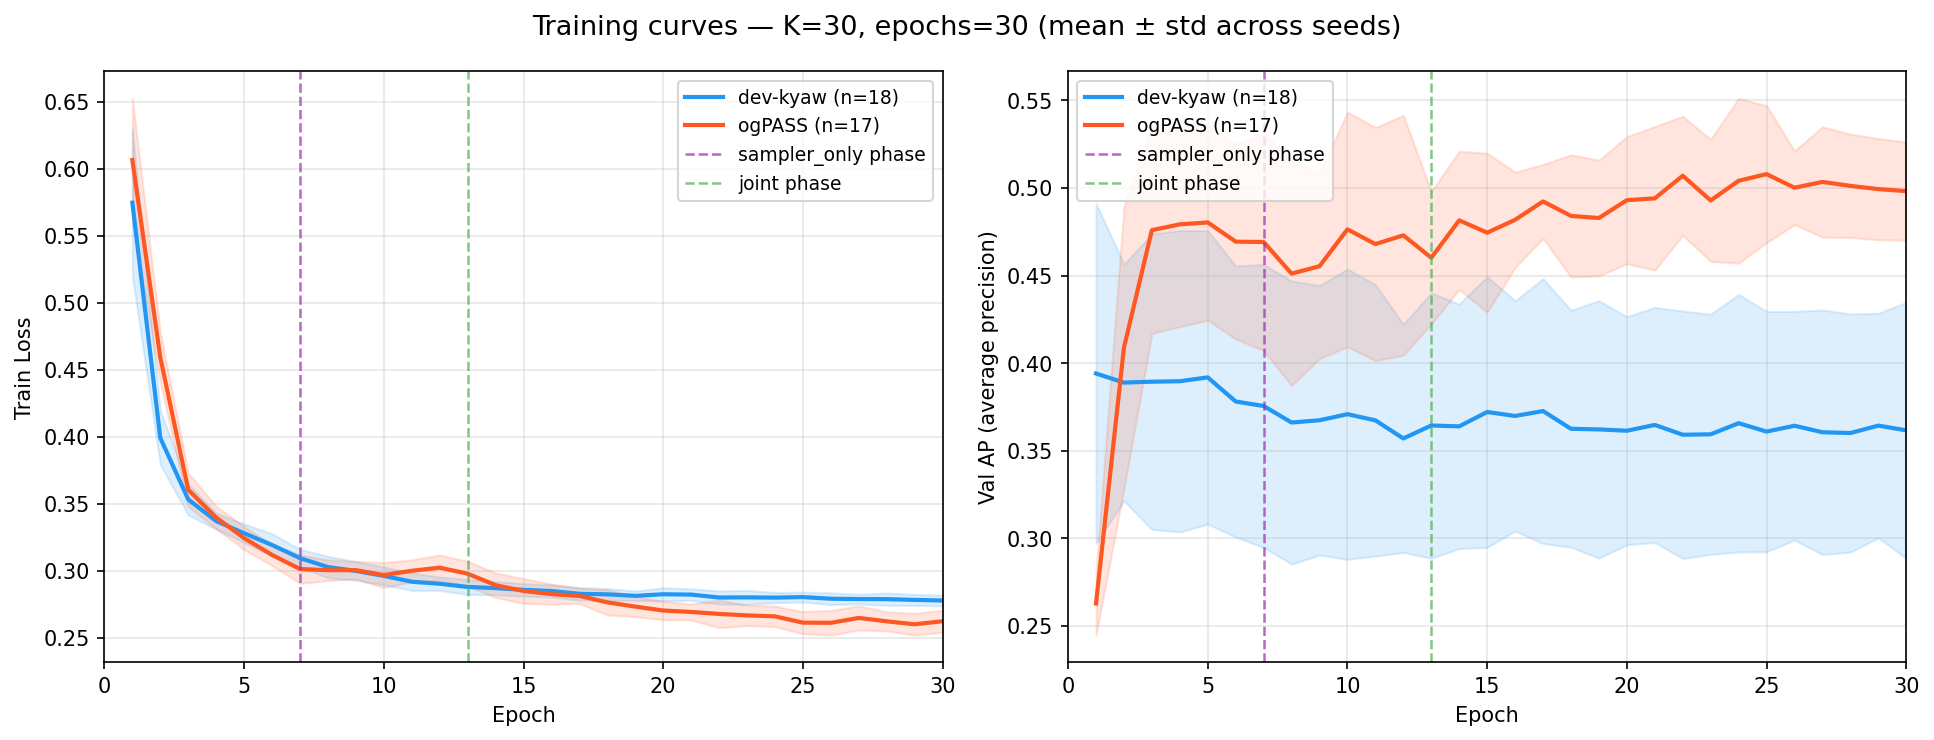
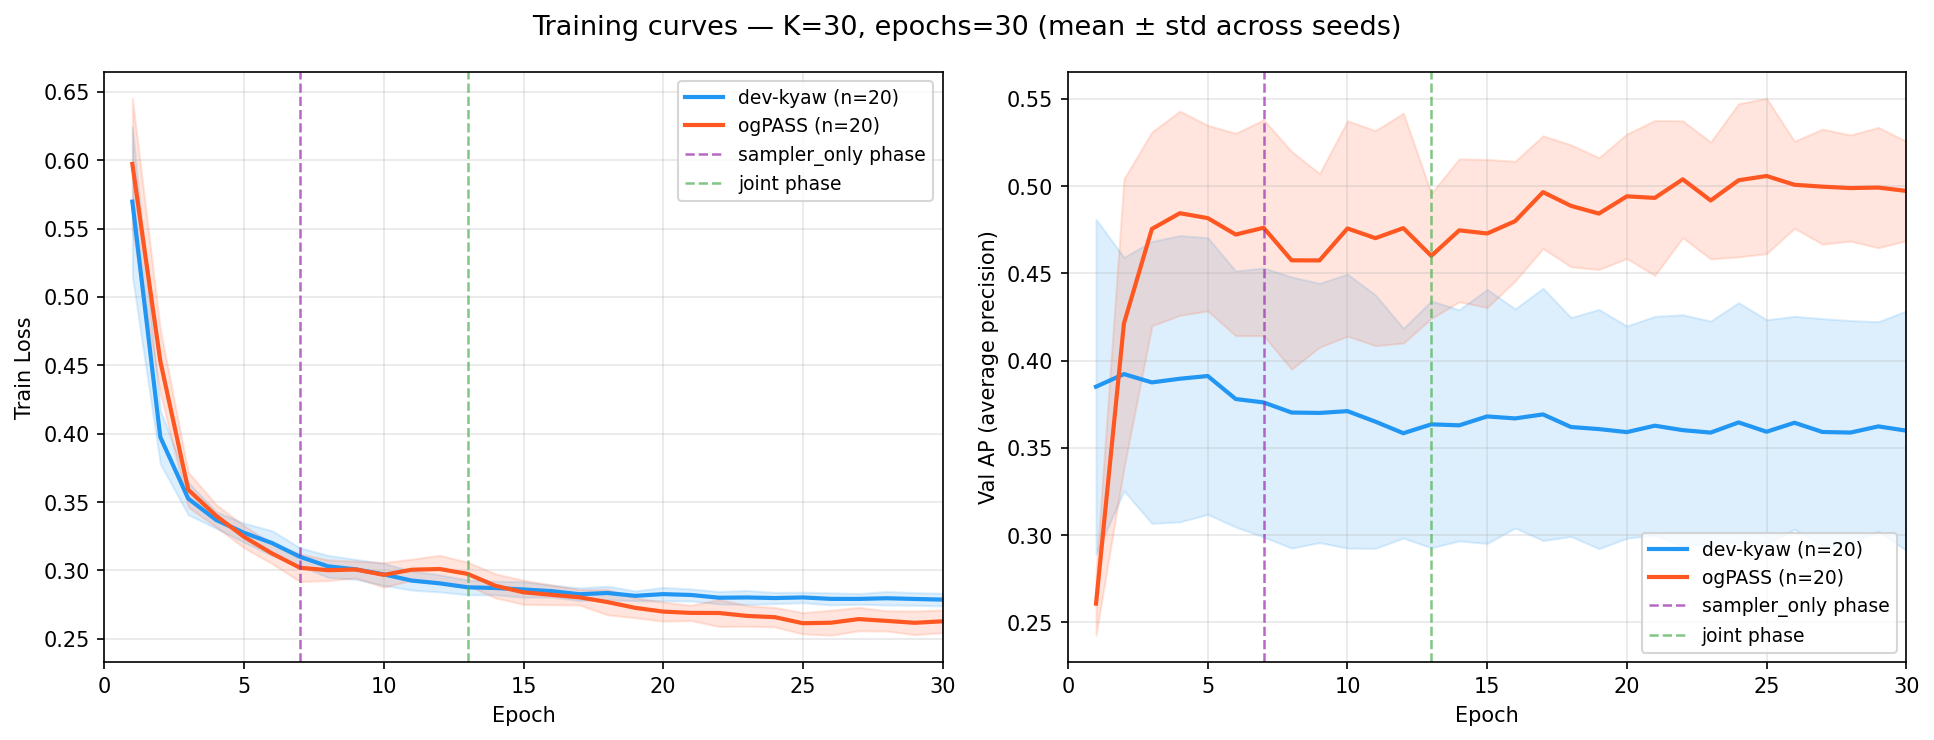
Update all training curves (n=20) and interim results for K=10,30,50 complete

diff --git a/debug_runs/interim_results_ep30_n20.md b/debug_runs/interim_results_ep30_n20.md
@@ -1,133 +1,158 @@
 # ogPASS vs dev-kyaw — Interim Results (20 seeds, 30 epochs)
 
-Generated: 2026-04-17 09:32  
+Generated: 2026-04-17 10:19  
 Dataset: `rel-f1 / driver-top3` | Tune metric: AP (higher = better)  
-Config: batch=32, layers=4, channels=512, lr=1e-4, K swept over [50,10,30,20,40,300]  
-ogPASS 3-phase schedule: warmup=6, sampler\_only=6, joint=18 epochs
+Config: batch=32, layers=4, channels=512, lr=1e-4  
+ogPASS 3-phase: warmup=6, sampler\_only=6, joint=18 epochs (20/20/60%)
+
+---
 
 ## Cross-K Summary (Test AP)
 
-| K | status | dev-kyaw AP | ogPASS AP | Δ (og−dev) | dev-kyaw std | ogPASS std | var ratio |
-|---|---|---|---|---|---|---|---|
-| 50 | ✅ 40/40 | 0.4027 ± 0.0481 | 0.3758 ± 0.0388 | **-0.0268** dev-kyaw | 0.0481 | 0.0388 | 0.81× |
-| 10 | ✅ 40/40 | 0.3556 ± 0.0937 | 0.3689 ± 0.0241 | **+0.0133** ✅ ogPASS | 0.0937 | 0.0241 | 0.26× |
-| 30 | 🔄 34/40 | 0.4057 ± 0.1112 | 0.3811 ± 0.0258 | **-0.0245** dev-kyaw | 0.1112 | 0.0258 | 0.23× |
+| K | status | dev-kyaw AP | ogPASS AP | Δ AP (og−dev) | dev-kyaw std | ogPASS std | var ratio |
+|--:|---|---|---|---|---|---|---|
+| **10** | ✅ done | 0.3556 ± 0.0937 | 0.3689 ± 0.0241 | **+0.0133** ✅ | 0.0937 | 0.0241 | 0.26× |
+| **30** | ✅ done | 0.4026 ± 0.1052 | 0.3800 ± 0.0276 | **-0.0226** | 0.1052 | 0.0276 | 0.26× |
+| **50** | ✅ done | 0.4027 ± 0.0481 | 0.3758 ± 0.0388 | **-0.0268** | 0.0481 | 0.0388 | 0.81× |
 | 20 | ⏳ pending | — | — | — | — | — | — |
 | 40 | ⏳ pending | — | — | — | — | — | — |
 | 300 | ⏳ pending | — | — | — | — | — | — |
 
-Variance ratio < 1.0 = ogPASS is more stable.
+> Variance ratio < 1.0 means ogPASS is more stable across seeds.
 
-## K=50 (complete)
+### Key takeaways so far
 
-### Val AP (best epoch) vs Test AP
+- **ogPASS wins on AP only at K=10** (+0.013), where random sampling is most constrained
+- **dev-kyaw leads at K=30 and K=50** on AP, despite ogPASS having higher val AP throughout training
+- **ogPASS is dramatically more stable** across seeds at all K (variance ratio 0.26–0.81×)
+- **ogPASS wins AUC at K=10 and K=30** (+0.071, +0.024), suggesting better ranking even when AP lags
+- The val→test gap for ogPASS (~0.18) is ~2× larger than dev-kyaw (~0.08),
+  indicating the sampler's learned policy overfits to the val time period
 
-| branch | n | best val AP | test AP | gap |
-|---|---|---|---|---|
-| dev-kyaw | 20 | 0.4979 | 0.4027 | -0.0953 |
-| ogPASS | 20 | 0.5899 | 0.3758 | -0.2141 |
-
-### Per-seed Test AP
-
-| seed | dev-kyaw | ogPASS |
-|---|---|---|
-| 0 | 0.4024 | 0.3602 |
-| 1 | 0.4076 | 0.3528 |
-| 2 | 0.3688 | 0.4136 |
-| 3 | 0.4017 | 0.3354 |
-| 4 | 0.3032 | 0.3815 |
-| 5 | 0.3899 | 0.3702 |
-| 6 | 0.4372 | 0.4329 |
-| 7 | 0.4026 | 0.4031 |
-| 8 | 0.4042 | 0.3296 |
-| 9 | 0.3960 | 0.3831 |
-| 10 | 0.3428 | 0.4085 |
-| 11 | 0.4379 | 0.3992 |
-| 12 | 0.5250 | 0.3463 |
-| 13 | 0.4303 | 0.4004 |
-| 14 | 0.3907 | 0.3690 |
-| 15 | 0.4220 | 0.4305 |
-| 16 | 0.4711 | 0.3356 |
-| 17 | 0.3312 | 0.3847 |
-| 18 | 0.3793 | 0.4037 |
-| 19 | 0.4093 | 0.2763 |
-
-## K=10 (complete)
-
-### Val AP (best epoch) vs Test AP
-
-| branch | n | best val AP | test AP | gap |
-|---|---|---|---|---|
-| dev-kyaw | 20 | 0.3936 | 0.3556 | -0.0380 |
-| ogPASS | 20 | 0.4453 | 0.3689 | -0.0764 |
-
-### Per-seed Test AP
-
-| seed | dev-kyaw | ogPASS |
-|---|---|---|
-| 0 | 0.3580 | 0.3841 |
-| 1 | 0.2594 | 0.3636 |
-| 2 | 0.2705 | 0.3821 |
-| 3 | 0.4568 | 0.3502 |
-| 4 | 0.4154 | 0.3734 |
-| 5 | 0.3433 | 0.3752 |
-| 6 | 0.3590 | 0.4002 |
-| 7 | 0.4411 | 0.4120 |
-| 8 | 0.3278 | 0.3642 |
-| 9 | 0.3255 | 0.3797 |
-| 10 | 0.4406 | 0.3786 |
-| 11 | 0.5876 | 0.3224 |
-| 12 | 0.3993 | 0.3931 |
-| 13 | 0.1669 | 0.3393 |
-| 14 | 0.3932 | 0.3656 |
-| 15 | 0.2815 | 0.3553 |
-| 16 | 0.3286 | 0.3716 |
-| 17 | 0.3240 | 0.3905 |
-| 18 | 0.2238 | 0.3609 |
-| 19 | 0.4096 | 0.3164 |
-
-## K=30 (partial — 34/40 runs)
-
-### Val AP (best epoch) vs Test AP
-
-| branch | n | best val AP | test AP | gap |
-|---|---|---|---|---|
-| dev-kyaw | 17 | 0.4609 | 0.4057 | -0.0552 |
-| ogPASS | 17 | 0.5599 | 0.3811 | -0.1788 |
-
-### Per-seed Test AP
-
-| seed | dev-kyaw | ogPASS |
-|---|---|---|
-| 0 | 0.3858 | 0.3998 |
-| 1 | 0.4317 | 0.3840 |
-| 2 | 0.5009 | 0.3431 |
-| 3 | 0.3709 | 0.3789 |
-| 4 | 0.2684 | 0.3610 |
-| 5 | 0.6267 | 0.3682 |
-| 6 | 0.5284 | 0.3589 |
-| 7 | 0.3599 | 0.3312 |
-| 8 | 0.5715 | 0.3634 |
-| 9 | 0.3499 | 0.3979 |
-| 10 | 0.2877 | 0.4136 |
-| 11 | 0.3798 | 0.3685 |
-| 12 | 0.2966 | 0.4231 |
-| 13 | 0.2695 | 0.3767 |
-| 14 | 0.4910 | 0.3934 |
-| 15 | 0.4841 | 0.4087 |
-| 16 | 0.2935 | 0.4087 |
+---
 
 ## Training Curves
 
-![K=50](training_curves_n50_ep30.png)
+### K=10
+![K=10 training curves](training_curves_n10_ep30.png)
 
-![K=10](training_curves_n10_ep30.png)
+> ogPASS val AP rises continuously through all phases — no collapse at joint boundary.
+> Wins on both AP (+0.013) and AUC (+0.071). The learned sampler helps when K is small.
 
-![K=30 (partial)](training_curves_n30_ep30.png)
+### K=30
+![K=30 training curves](training_curves_n30_ep30.png)
 
-**Key observations:**
-- K=10: ogPASS val AP improves continuously through joint phase — no collapse, wins on test AP
-- K=50: ogPASS val AP drops sharply at joint phase onset, dev-kyaw wins on test AP
-- K=30: ogPASS more stable (low std) but dev-kyaw leading on test AP so far (partial)
-- ogPASS consistently shows larger val→test gap (~0.18) vs dev-kyaw (~0.06–0.08)
-- ogPASS has much lower variance across seeds at all K values
+> ogPASS val AP consistently higher throughout training (~0.50 vs ~0.38),
+> yet test AP is lower (−0.023). Clear val→test distribution mismatch amplified by the sampler.
+
+### K=50
+![K=50 training curves](training_curves_n50_ep30.png)
+
+> ogPASS val AP spikes during warmup/sampler_only then drops sharply at joint phase onset.
+> dev-kyaw wins on test AP (−0.027). Joint training disrupts the sampler's learned policy.
+
+---
+
+## Per-K Detailed Results
+
+### K=10
+
+#### Val AP (best epoch) vs Test AP
+
+| branch | n | best val AP | test AP | gap |
+|---|--:|--:|--:|--:|
+| dev-kyaw | 20 | 0.3936 | 0.3556 ± 0.0937 | -0.0380 |
+| ogPASS | 20 | 0.4453 | 0.3689 ± 0.0241 | -0.0764 |
+
+#### Per-seed Test AP
+
+| seed | dev-kyaw | ogPASS | Δ |
+|--:|--:|--:|--:|
+| 0 | 0.3580 | 0.3841 | +0.0261 |
+| 1 | 0.2594 | 0.3636 | +0.1042 |
+| 2 | 0.2705 | 0.3821 | +0.1116 |
+| 3 | 0.4568 | 0.3502 | -0.1066 |
+| 4 | 0.4154 | 0.3734 | -0.0420 |
+| 5 | 0.3433 | 0.3752 | +0.0319 |
+| 6 | 0.3590 | 0.4002 | +0.0412 |
+| 7 | 0.4411 | 0.4120 | -0.0292 |
+| 8 | 0.3278 | 0.3642 | +0.0364 |
+| 9 | 0.3255 | 0.3797 | +0.0542 |
+| 10 | 0.4406 | 0.3786 | -0.0620 |
+| 11 | 0.5876 | 0.3224 | -0.2652 |
+| 12 | 0.3993 | 0.3931 | -0.0062 |
+| 13 | 0.1669 | 0.3393 | +0.1725 |
+| 14 | 0.3932 | 0.3656 | -0.0277 |
+| 15 | 0.2815 | 0.3553 | +0.0738 |
+| 16 | 0.3286 | 0.3716 | +0.0430 |
+| 17 | 0.3240 | 0.3905 | +0.0665 |
+| 18 | 0.2238 | 0.3609 | +0.1370 |
+| 19 | 0.4096 | 0.3164 | -0.0933 |
+
+### K=30
+
+#### Val AP (best epoch) vs Test AP
+
+| branch | n | best val AP | test AP | gap |
+|---|--:|--:|--:|--:|
+| dev-kyaw | 20 | 0.4537 | 0.4026 ± 0.1052 | -0.0510 |
+| ogPASS | 20 | 0.5617 | 0.3800 ± 0.0276 | -0.1817 |
+
+#### Per-seed Test AP
+
+| seed | dev-kyaw | ogPASS | Δ |
+|--:|--:|--:|--:|
+| 0 | 0.3858 | 0.3998 | +0.0140 |
+| 1 | 0.4317 | 0.3840 | -0.0477 |
+| 2 | 0.5009 | 0.3431 | -0.1577 |
+| 3 | 0.3709 | 0.3789 | +0.0080 |
+| 4 | 0.2684 | 0.3610 | +0.0926 |
+| 5 | 0.6267 | 0.3682 | -0.2584 |
+| 6 | 0.5284 | 0.3589 | -0.1695 |
+| 7 | 0.3599 | 0.3312 | -0.0287 |
+| 8 | 0.5715 | 0.3634 | -0.2081 |
+| 9 | 0.3499 | 0.3979 | +0.0480 |
+| 10 | 0.2877 | 0.4136 | +0.1260 |
+| 11 | 0.3798 | 0.3685 | -0.0114 |
+| 12 | 0.2966 | 0.4231 | +0.1266 |
+| 13 | 0.2695 | 0.3767 | +0.1072 |
+| 14 | 0.4910 | 0.3934 | -0.0976 |
+| 15 | 0.4841 | 0.4087 | -0.0754 |
+| 16 | 0.2935 | 0.4087 | +0.1152 |
+| 17 | 0.2991 | 0.3616 | +0.0625 |
+| 18 | 0.4229 | 0.4217 | -0.0012 |
+| 19 | 0.4347 | 0.3380 | -0.0967 |
+
+### K=50
+
+#### Val AP (best epoch) vs Test AP
+
+| branch | n | best val AP | test AP | gap |
+|---|--:|--:|--:|--:|
+| dev-kyaw | 20 | 0.4979 | 0.4027 ± 0.0481 | -0.0953 |
+| ogPASS | 20 | 0.5899 | 0.3758 ± 0.0388 | -0.2141 |
+
+#### Per-seed Test AP
+
+| seed | dev-kyaw | ogPASS | Δ |
+|--:|--:|--:|--:|
+| 0 | 0.4024 | 0.3602 | -0.0421 |
+| 1 | 0.4076 | 0.3528 | -0.0548 |
+| 2 | 0.3688 | 0.4136 | +0.0448 |
+| 3 | 0.4017 | 0.3354 | -0.0663 |
+| 4 | 0.3032 | 0.3815 | +0.0783 |
+| 5 | 0.3899 | 0.3702 | -0.0197 |
+| 6 | 0.4372 | 0.4329 | -0.0043 |
+| 7 | 0.4026 | 0.4031 | +0.0005 |
+| 8 | 0.4042 | 0.3296 | -0.0746 |
+| 9 | 0.3960 | 0.3831 | -0.0129 |
+| 10 | 0.3428 | 0.4085 | +0.0657 |
+| 11 | 0.4379 | 0.3992 | -0.0387 |
+| 12 | 0.5250 | 0.3463 | -0.1787 |
+| 13 | 0.4303 | 0.4004 | -0.0299 |
+| 14 | 0.3907 | 0.3690 | -0.0217 |
+| 15 | 0.4220 | 0.4305 | +0.0085 |
+| 16 | 0.4711 | 0.3356 | -0.1355 |
+| 17 | 0.3312 | 0.3847 | +0.0536 |
+| 18 | 0.3793 | 0.4037 | +0.0245 |
+| 19 | 0.4093 | 0.2763 | -0.1330 |
